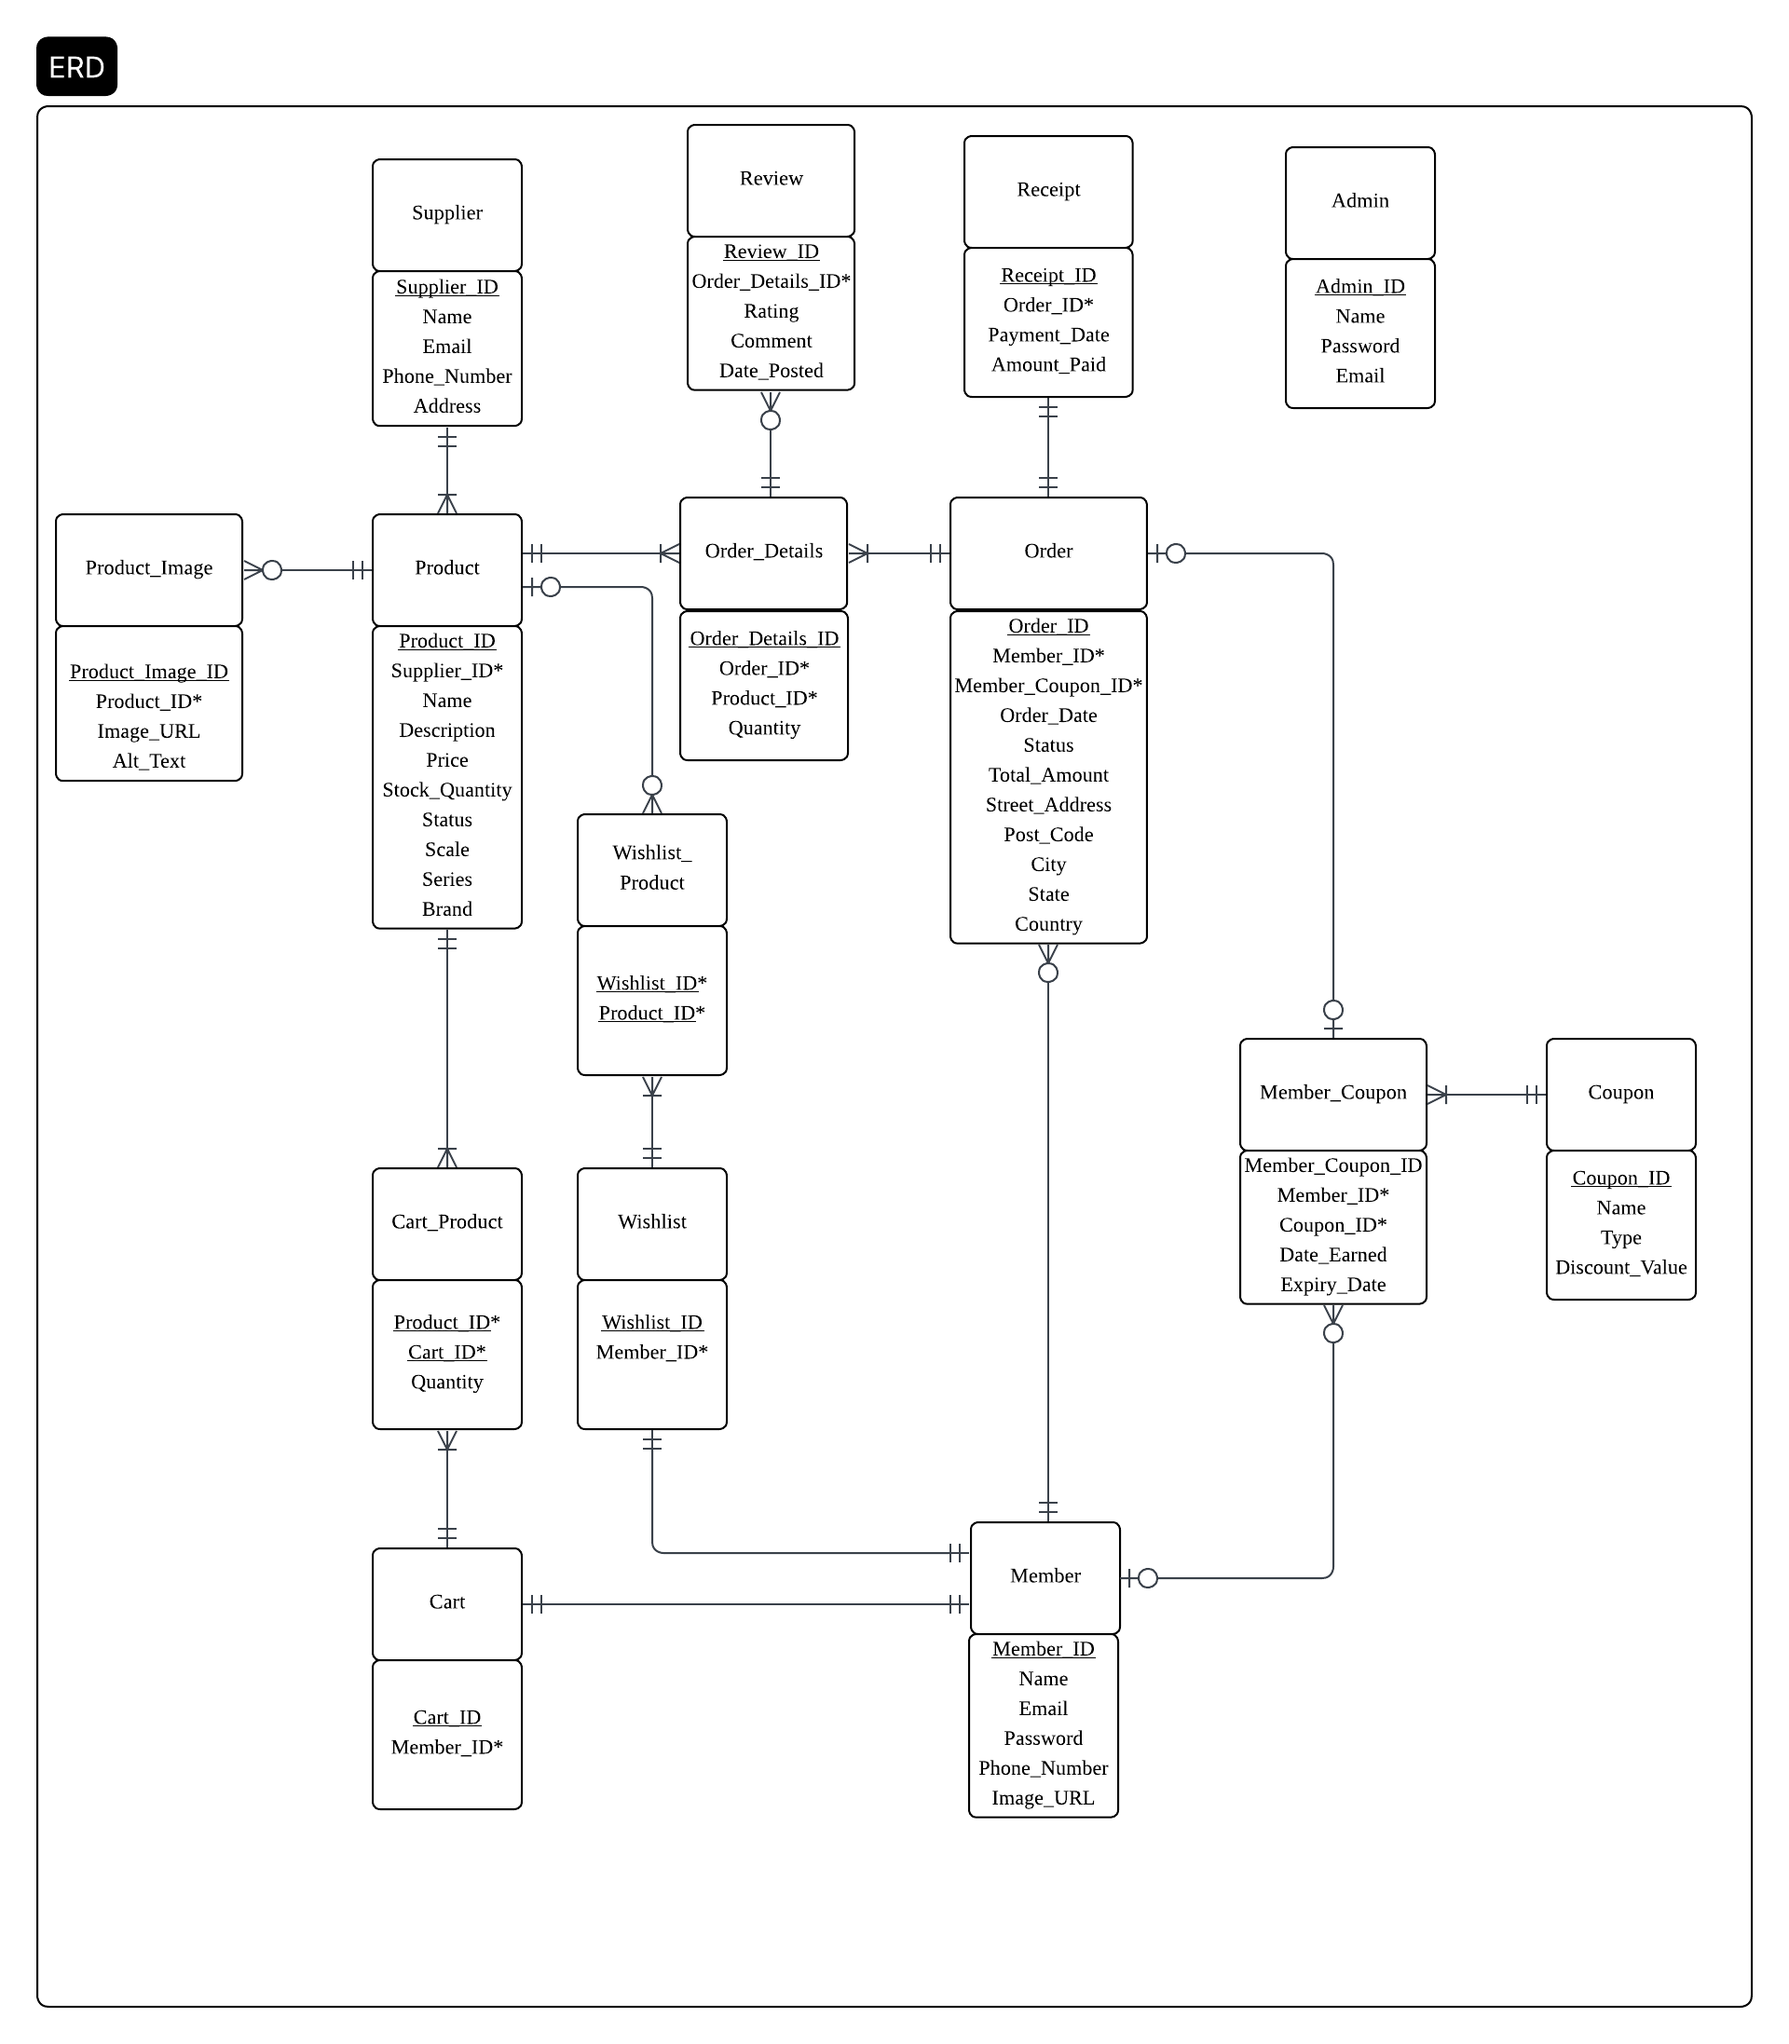
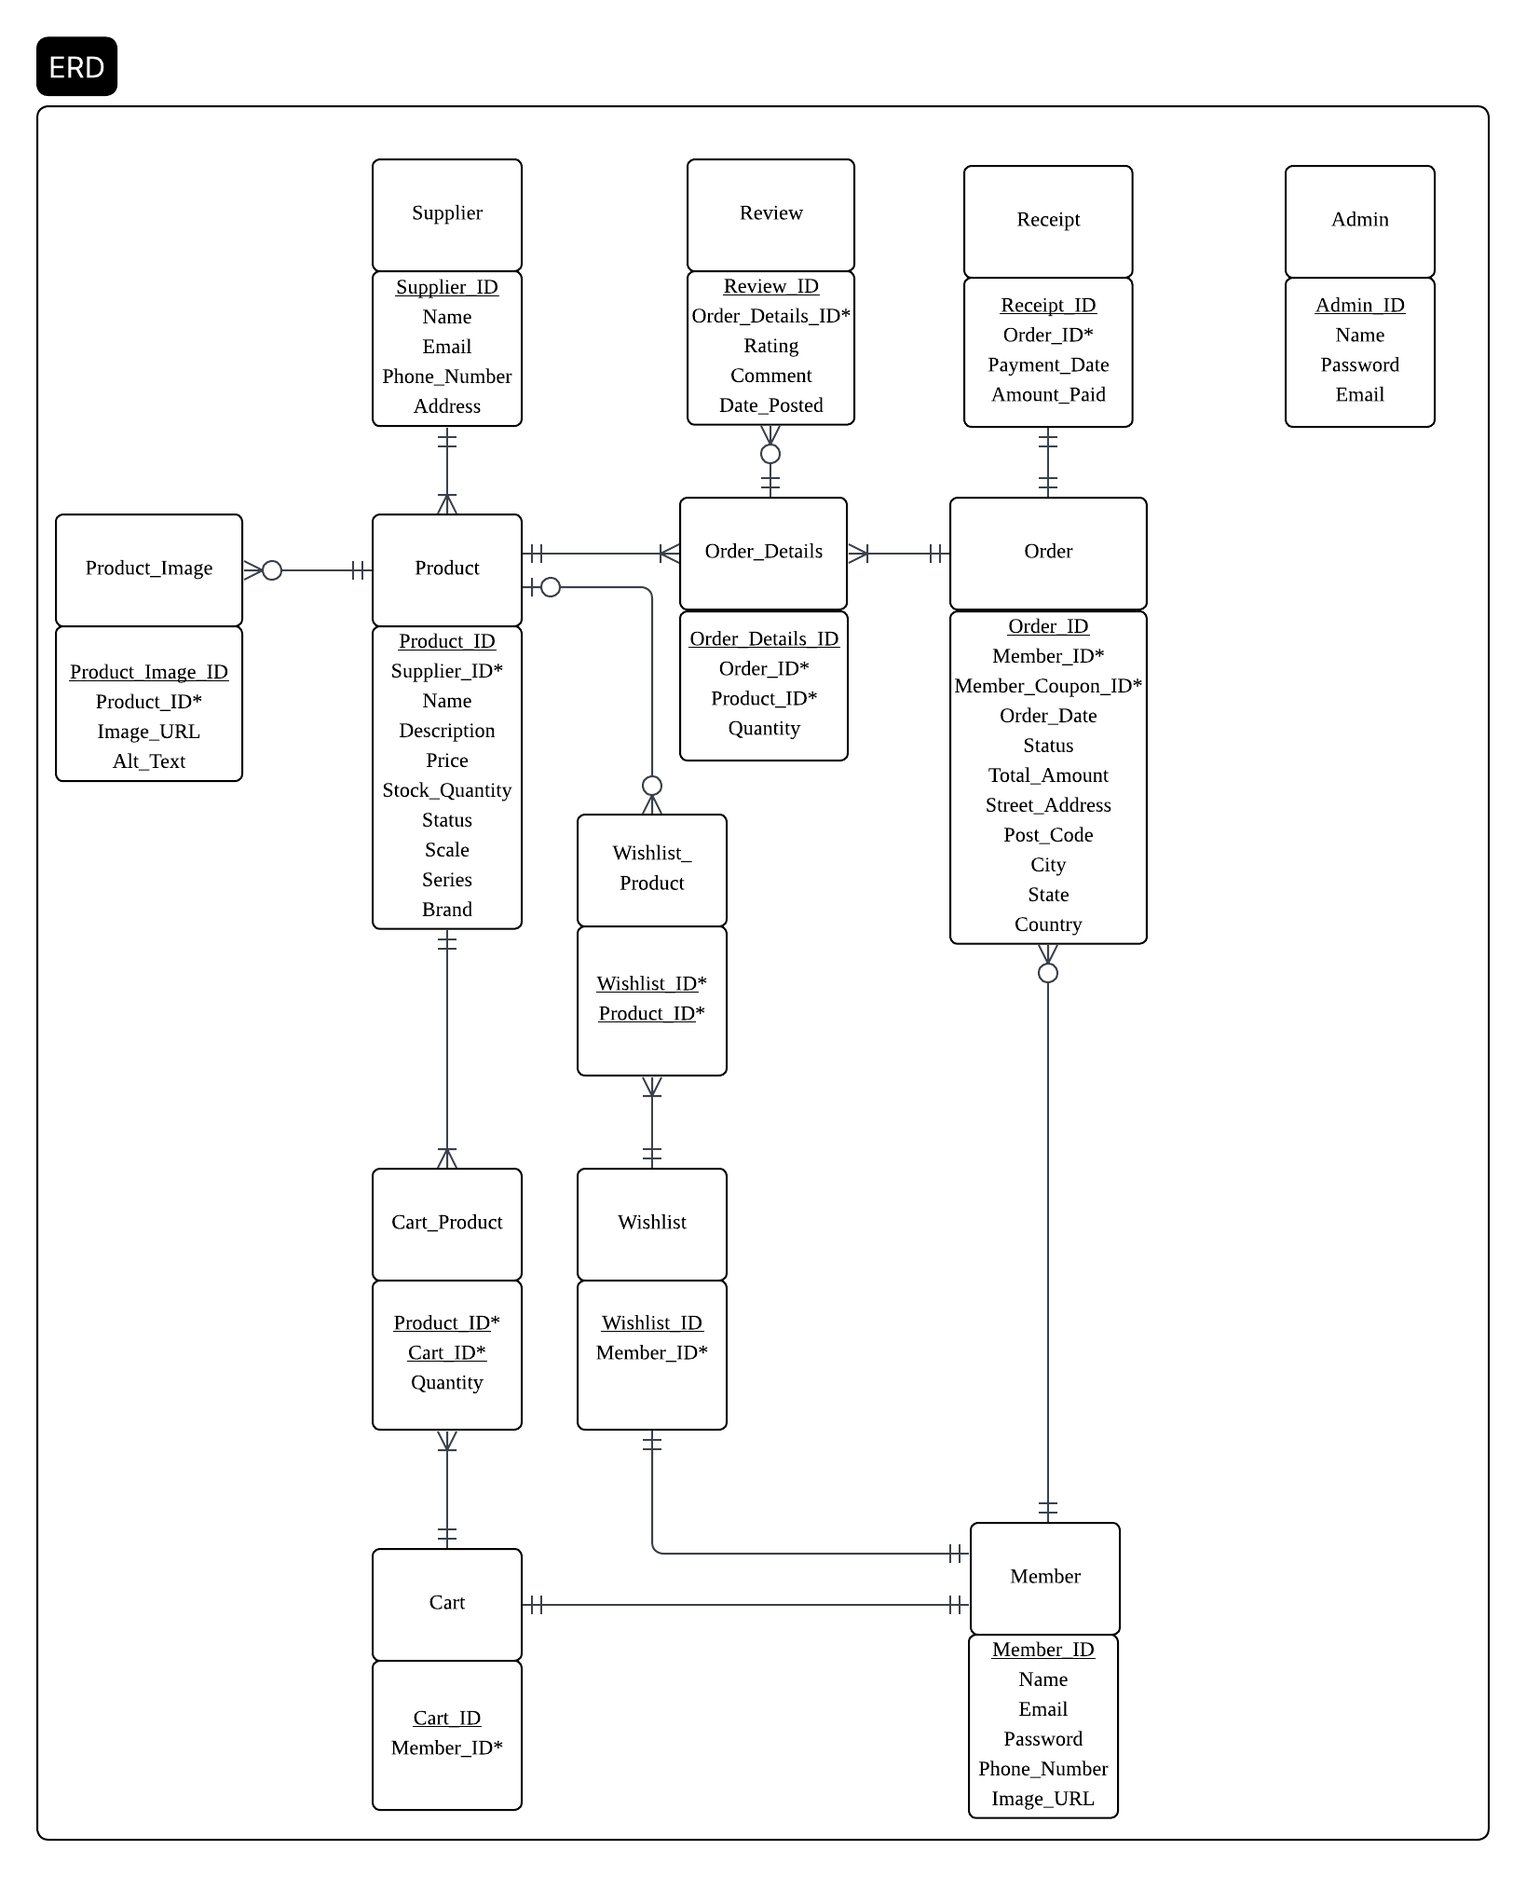
updated cart with quantity editing

diff --git a/app/cart/cart.php b/app/cart/cart.php
@@ -2,13 +2,26 @@
     include '../_base.php';
     $_title = 'Shopping Cart';
     include '../_head.php';
+    if(is_post()){
+        $product_id = req('product_id');
+        $quantity = req('quantity');
+        if($quantity <= 0){
+            $_err['quantity'] = 'Invalid Quantity';
+        }
+        if(!$_err){
+            $stm = $_db->prepare('UPDATE cart_product SET quantity = ? WHERE product_id = ?');
+            $stm->execute([$quantity,$product_id]);
+        }
+    }
     $stm = $_db->prepare('SELECT p.*, cp.* FROM cart_product cp JOIN product p ON cp.Product_ID = p.Product_ID WHERE cp.Cart_ID = 1');    
     $stm->execute();
     $products = $stm->fetchAll();
     $product_image = [];
     $total = 0;
+    $totalItems = 0;
     foreach($products as $p){
-            $total+=$p->Price;
+            $total+=$p->Price * $p->Quantity;
+            $totalItems += $p->Quantity;
             $stm = $_db->prepare('SELECT * FROM product_image WHERE product_id = ?');
             $stm->execute([$p->Product_ID]);
             $image = $stm->fetchAll();
@@ -17,11 +30,14 @@
     $stm = $_db->prepare('SELECT Cart_ID FROM cart WHERE Cart_ID = 1');
     $stm->execute();
     $cart_id = $stm->fetch();
-    
+
+
     
 ?>
     <style>
-        .productRowTop img{
+        #productImage{
+            padding-top:5px;
+            padding-right:10px;
             width: 150px;
             height: 150px;
         }
@@ -45,6 +61,7 @@
             text-align:center;
             font-size: 35px;
             color:#FF5E7E;
+            padding-top:40px;
         }
         .removeBtn{
             text-align: right;
@@ -78,6 +95,8 @@
         }
         #subTotal{
             font-size:30px;
+            font-weight:bold;
+            color:#FF5E7E;
         }
         #emptyCart{
             text-align:center;
@@ -99,51 +118,74 @@
             font-weight: bold;
             color: #FF5E7E;
         }
-        #quantityValue{
+        #quantityValue {
             text-align: right;
+        }
+        #quantityValue input{
+            text-align: center;
             font-size:20pt;
-            padding-right: 40px;
+            width:30%;
+            border: 5px solid pink;
             font-weight:bold;
             color: #FF5E7E;
+            margin-right:5px;
+            
         }
         main > :first-child{
-            visibility: hidden;
+            display: none;
+        }
+        #checkOutBtn{
+            width:100%;
+            height:60px;
+            border: 5px solid pink;
+            border-radius: 10px;
+            background-color: pink;
+            color:black;
+            text-decoration: none;
+        }
+        #checkOutBtn:hover{
+            background-color:#ffa1b0;
+            border-color: #ffa1b0
         }
     </style>
     <h2>Cart</h2>
     <?php if($products): ?>
-    <form>
         <table>
             <?php foreach($products as $p): ?>        
             <tr class = productRowTop>
-                <td rowspan = "3"><a><img src = <?= $product_image[$p->Product_ID][0]->Image_URL ?> alt = <?= $product_image[$p->Product_ID][0]->Alt_Text ?>></a></td>
-                <td class = productDetails><?= $p->Name ?><br><span id="productCategory"><?= $p->Brand." ".$p->Scale." ".$p->Series ?></span></td>
+                <td rowspan = "3"><a><img id = productImage src = <?= $product_image[$p->Product_ID][0]->Image_URL ?> alt = <?= $product_image[$p->Product_ID][0]->Alt_Text ?>></a></td>
+                <td class = productDetails><b><?= $p->Name ?></b><br><span id="productCategory"><?= $p->Brand." ".$p->Scale." ".$p->Series ?></span></td>
                 <td></td>
                 <td class = removeBtn><button data-post="delete.php?cart_id=<?=$p->Cart_ID?>&product_id=<?=$p->Product_ID?>"><img src = "/images/trash.png" alt = "trash">Remove</button></td>
             </tr>
             <tr class = productRowMiddle>
                 <td class = productPrice>RM <?= number_format($p->Price,2) ?></td>
-                <td id = "productQuantity">Quantity:</td>
-                <td id = "quantityValue"><?= $p->Quantity ?></td>
+                <td id = "productQuantity"><label for="quantity">Quantity:</label></td>
+                <form method = "post">
+                <td id = "quantityValue">
+                    
+                        <?= html_hidden('product_id',$p->Product_ID) ?>
+                        <?= html_number('quantity', $p->Quantity, 1) ?>
+                </form>
+                </td>
             </tr>
             <tr class = productRowBottom></tr>
             <?php endforeach ?>
         </table>
-    </form>
+    
     <div class = totalPriceArea>
-        <form>
-            <p id = totalItems>Total Items: <?= count($products) ?></p>
+            <p id = totalItems>Total Items: <?= $totalItems ?></p>
             <button class = "removeBtn" data-post="deleteAll.php?cart_id=<?=$cart_id->Cart_ID?>"><img src="/images/trash.png" alt="trash">Remove All</button>
-        </form>
         <p id = subTotal>Subtotal: RM<?= number_format($total,2) ?></p>
-        <form>
-            <button data-post = "checkout.php?cart_id=<?=$cart_id->Cart_ID?>">Check Out</button></form>
+            <button id = "checkOutBtn" data-post = "checkout.php?cart_id=<?=$cart_id->Cart_ID?>">Check Out</button>
     </div>
     <?php else: ?>
     <p id = "emptyCart">Your cart is currently empty.</p>
     <?php endif ?>
     
-
+<script>
+    $('input[type="number"]').on('change', e => e.target.form.submit());
+</script>
     
 <?php
     include '../_foot.php';

diff --git a/app/_base.php b/app/_base.php
@@ -163,8 +163,8 @@ function encode($value) {
 }
 
 // Generate <input type='hidden'>
-function html_hidden($key, $attr = '') {
-    $value ??= encode($GLOBALS[$key] ?? '');
+function html_hidden($key, $value, $attr = '') {
+    $value ??= encode($value);
     echo "<input type='hidden' id='$key' name='$key' value='$value' $attr>";
 }
 
@@ -422,6 +422,4 @@ function is_exists($value, $table, $field) {
 // ============================================================================
 // Global Constants and Variables
 // ============================================================================
-$states = [
-    'Penang','Johor', 'Kedah', 'Kelantan', 'Kuala Lumpur', 'Labuan', 'Melaka', 'Negeri Sembilan', 'Pahang', 'Perak', 'Perlis', 'Putrajaya', 'Sabah', 'Sarawak', 'Selangor', 'Terengganu'
-];
+

diff --git a/app/user/profile.php b/app/user/profile.php
@@ -8,7 +8,7 @@ auth();
 
 if (is_get()) {
     $stm = $_db->prepare('SELECT * FROM member WHERE Member_ID = ?');
-    $stm->execute([$_user->id]);
+    $stm->execute([$_user->Member_ID]);
     $u = $stm->fetch();
 
     if (!$u) {
